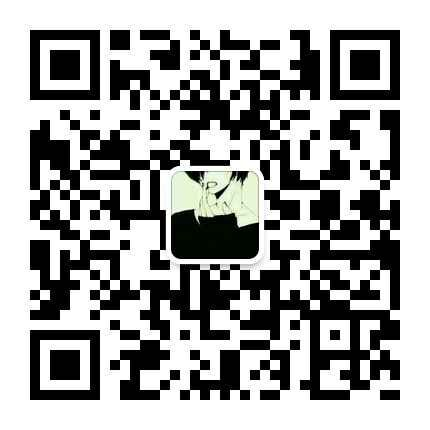
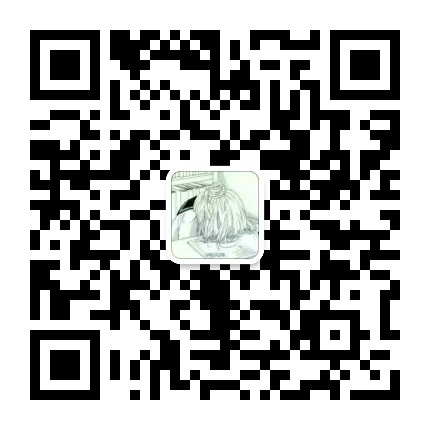
second commit

diff --git a/index.html b/index.html
@@ -2,14 +2,14 @@
 <html lang="en">
 <head>
 	<meta charset="UTF-8">
-	<title>黑夜主权(Night)</title>
+	<title>个人主页</title>
     
     <meta name="viewport" content="width=device-width,initial-scale=1.0,maximum-scale=1.0,user-scalable=no">
     <meta name="apple-mobile-app-capable" content="yes">
     <meta name="apple-mobile-app-status-bar-style" content="black">
    
-    <meta name="description" content="一只叫做黑夜的阿宅，想成为家喻户晓的大侠">
-    <meta name="keywords" content="二次元，宅属性，前端，编程，全栈，绘画，设计">
+    <meta name="description" content="一只阿宅，想成为家喻户晓的大侠">
+    <meta name="keywords" content="二次元，宅，前端，编程，网络爬虫，绘画">
     <meta http-equiv="X-UA-Compatible" content="IE=edge,chrome=1" />
     <meta http-equiv="X-UA-Compatible" content="IE=edge">
     <meta name="author" content="cononico">
@@ -56,15 +56,15 @@
             <div class="box01_content">
                 <div class="head_div">
                     <div class="cycle_item">
-                        <a href="https://yoomeili.cn" class="github_a" id="github_a" target="_blank">
+                        <a href="https://hcy467.github.io" class="github_a" id="github_a" target="_blank">
                             <span class="github_icon"></span>
                             <span class="github_text"><p class="item_name">GitHub</p></span>
                         </a>
-                        <a href="http://blog.yoomeili.cn" class="weibo_a" id="weibo_a" target="_blank">
+                        <a href="http://huangchaoyu.cn" class="weibo_a" id="weibo_a" target="_blank">
                             <span class="weibo_icon"></span>
                             <span class="weibo_text"><p class="item_name">微博</p> </span>
                         </a>
-                        <a href="http://blog.yoomeili.cn" class="blog_a" id="blog_a" target="_blank">
+                        <a href="http://huangchaoyu.cn" class="blog_a" id="blog_a" target="_blank">
                             <span class="blog_icon"></span>
                             <span class="blog_text"><p class="item_name"> 博客</p></span>
                         </a>
@@ -83,11 +83,11 @@
                         </div>
                     </div>
                 </div>
-                <h1 class="title">黑夜</h1>
+                <h1 class="title"></h1>
                 <h2 class="title_h2">千里之行，始于足下</h2>
                 <div id="box01_text">
-                <p class="box01_p">不久前还只是一个失业农民工.</p>
-                <p class="box01_p">现在还只是一只喜欢动漫和文学的学生党.</p>
+                <p class="box01_p">不久前还只是一个高中生.</p>
+                <p class="box01_p">现在还只是一只喜欢动漫和编程的大学党.</p>
                 <p class="box01_p">不久以后将是又一个人生迷茫的旅行者.</p>
                 </div>
             </div>
@@ -101,27 +101,27 @@
             
             <div class="box02_content box_content">
                 <div id='bar_container' class="bar_container">
-                    <div class='bar mint' data-percent='70' data-skill='HTML5+CSS3'></div>
-                    <div class='bar red' data-percent='50' data-skill='JavaScript'></div>
-                    <div class='bar lila' data-percent='50' data-skill='前端工程化'></div>
-                    <div class='bar orange' data-percent='50' data-skill='Node.js'></div>
-                    <div class='bar gray' data-percent='30' data-skill='Java || C++'></div>
-                    <div class="bar blue" data-percent='50' data-skill='PS&AE&PR&AI'></div>
+                    <div class='bar mint' data-percent='50' data-skill='HTML5+CSS3'></div>
+                    <div class='bar red' data-percent='20' data-skill='JavaScript'></div>
+                    <div class='bar lila' data-percent='60' data-skill='C语言'></div>
+                    <div class='bar orange' data-percent='20' data-skill='TCP/IP'></div>
+                    <div class='bar gray' data-percent='50' data-skill='python'></div>
+                    <div class="bar blue" data-percent='30' data-skill='网络爬虫'></div>
                     <div class="bar green" data-percent='60' data-skill='绘画'></div>
                 </div>
                 <div id="box02_text">
                     <h1>About Skill</h1>
                     <div class="overline"></div>
-                    <p>2012,第一次接触是C/C++,在拥挤的实验室</p>
-                    <p>2013,三月份在寝室迷上了网络游戏</p>
-                    <p>九月份开始学习到Java</p>
-                    <p>2014,年初的时候摸了摸Android，觉得稀奇有趣</p>
-                    <p>剩下的月份我在看JavaWeb</p>
-                    <p>2015,接触到WordPress,兴趣开始转到前端和脚本语言</p>
-                    <p>上半年插科打诨</p>
-                    <p>下半年开始学习H5,CSS3,JS</p>
-                    <p>现在正在学习前端工程化技术</p>
-                    <p>喜欢UI,交互设计,觉得UED是我坚持精确1个像素的动力</p>
+                    <p>2019，第一次接触是C,在大学的课上</p>
+                    <p>之后便在寝室迷上了网络游戏</p>
+                    <p>课余时间自学了python</p>
+                    <p>2020,年初的时候摸了摸Android，觉得稀奇有趣</p>
+                    <p>然后就是新冠，无法去学校的我只能研究python爬虫为乐</p>
+                    <p>2020暑假,接触到前端,开始学习H5,CSS3,JS</p>
+                    <p>开学后开始插科打诨</p>
+                    <p>下半学期的我在研究一些网络技术</p>
+                    <p>现在正在学习（毕竟要是拿不到毕业证和学位证就尴尬了）</p>
+                    <p>学习万岁，我爱学习，上学人都是人上人</p>
                     <p>而未来...</p>
                     <p>想成为一名全栈工程师</p>
                 </div>
@@ -141,30 +141,29 @@
                 <ul id="timeUl" class="timeUl">
                     <li>
                         <div>
-                            <h1>2012-Now</h1>
-                            <p>淄博职业学院</p>
-                            <p>专业：机械制造与自动化</p>
-                            <p>在风气不佳的考试战场中险些挂科(poi~)</p>
-                            <p>最喜欢的科目是LOL<p>
-                            <p>现在正在愁于毕业设计</p>
+                            <h1>2019-NOW</h1>
+                            <p>西安工程大学</p>
+                            <p>专业：计算机科学与技术</p>
+                            <p>在考试战场上险些挂科(poi~)</p>
+                            <p>最喜欢的科目是C语言<p>
+                            <p>正在愁于结课考试</p>
                         </div>
                     </li>
                     <li>
                         <div>
-                            <h1>2015.7-2015.8</h1>
-                            <p>青花瓷酒店</p>
-                            <p>服务员</p>
-                            <p>没学到什么东西</p>
-                           <p>前途多艰</p>
+                            <h1>2019-2020</h1>
+                            <p>网信处网络运维科</p>
+                            <p>学生助理(实习)</p>
+                            <p>大有收获</p>
+                           <p>了解了相当多的网络方面知识</p>
                         </div>
                     </li>
                     <li>
                        <div>
-                            <h1>2016.3-2016.4</h1>
-                            <p>小菜馆</p>
-                            <p>传菜生</p>
-                            
-                            <p>前途多艰</p>
+                            <h1>2020-NOW</h1>
+                            <p>网信处网络运维科</p>
+                            <p>学生助理</p>
+                            <p>正在体验中</p>
                         </div>
                     </li>
                     <li>
@@ -211,11 +210,11 @@
                                 <h1>绘画/<a>手绘&CG</a></h1>
                             </div>
                             <p class="about_p">
-                                对于绘画的热爱一部分来自于对ACG的热爱,小学时就开始拿着笔头被要烂的铅笔瞎画,
+                                对于绘画的热爱一部分来自于对ACG的热爱,小学时就开始拿着铅笔瞎画,
                                 可惜父母和我都没发现这是个值得培养的爱好,以至于现在发展为一个手残.
                             </p>
                             <p>
-                                比较擅长铅笔手绘动漫人物,SAI动漫人物的绘制(我是手残，上色渣渣).喜欢的画师是樋上至.
+                                比较擅长铅笔手绘动漫人物(我是手残，上色渣渣).喜欢的画师是樋上至.
                                 </a>
                             </p>
                         </div>
@@ -236,11 +235,11 @@
                                 <h1>ACG/<a>动漫&视频&lol</a></h1>
                             </div>
                             <p class="about_p">
-                                入宅作《犬夜叉》,看完《Angle Beats!》深陷泥潭,最喜欢K社的作品(包括Galgame),
-                                崇拜麻枝准,喜欢的歌手是ClariS.是个典型的萝莉控重度患者.
+                                其实并不常常看，偶尔而已。出名的动漫也都看过
+                                喜欢宫崎骏的作品,喜欢的歌手是ClariS.是个典型的宅男病重度患者.
                             </p>
                             <p>
-                                动漫对我而言是和文学一样的文化,最具感染力的抒情方式,将来希望自己工作在二次元的领域.
+                                动漫对我而言是和文学一样的文化,最具感染力的抒情方式,将来希望自己可以尝试给喜欢的角色建模。
                             </p>
                         </div>
                     </li>
@@ -260,7 +259,7 @@
                                 <h1>文学/<a>历史&写作</a></h1>
                             </div>
                             <p class="about_p">
-                                和大多数人一样曾经也在可当上捧着一本小说看,以前喜欢小四韩寒马尔克斯村上春树,现在的兴趣
+                                和大多数人一样曾经也在可当上捧着一本小说看,以前喜欢郭敬明村上春树,现在的兴趣
                                 转移到历史上去了,屌丝只有多读书才能提高自己的内涵.
                             </p>
                             <p>
@@ -281,34 +280,34 @@
             <div class="foot_info_main">
                 <ul>
                     <li class="github_items">
-                        <a href="http://blog.yoomeili.cn" target="_blank">GitHub</a>
+                        <a href="http://hcy467.github.io" target="_blank">GitHub</a>
                     </li>
                     <li class="google_items">
-                        <a href="http://blog.yoomeili.cn" target="_blank">Google+</a>
+                        <a href="http://huangchaoyu.cn" target="_blank">Google+</a>
                     
                     </li>
                     <li class="twitter_items">
-                        <a href="http://blog.yoomeili.cn" target="_blank">Twitter</a>
+                        <a href="http://huangchaoyu.cn" target="_blank">Twitter</a>
                     
                     </li>
                     <li class="facebook_items">
-                        <a href="http://blog.yoomeili.cn" target="_blank">FaceBook</a>
+                        <a href="http://huangchaoyu.cn" target="_blank">FaceBook</a>
                     
                     </li>
                     <li class="weibo_items">
-                        <a href="http://blog.yoomeili.cn" target="_blank">微博</a>
+                        <a href="http://huangchaoyu.cn" target="_blank">微博</a>
                     
                     </li>
                     <li class="zhihu_items">
-                        <a href="http://blog.yoomeili.cn" target="_blank">知乎</a>
+                        <a href="http://huangchaoyu.cn" target="_blank">知乎</a>
                     
                      </li>
                      <li class="blog_items">
-                        <a href="http://blog.yoomeili.cn" target="_blank">博客</a>
+                        <a href="http://huangchaoyu.cn" target="_blank">博客</a>
                     
                      </li>
                      <li class="email_items">
-                        <a href="mailto:min@coolecho.net" target="_blank">邮箱</a>
+                        <a href="2889065301@qq.com" target="_blank">邮箱</a>
                     </li>
                     <div class="clear"></div>
                 </ul>
@@ -319,19 +318,18 @@
                     </span>
                     <span class="dingding">
                         <a class="dingding_icon"></a>
-                        <img class="dingding_img" src="images/upload/dingding_qr.png">
+                        <img class="dingding_img" src="images/upload/dingding_qr.jpg">
                     </span>
                     <span class="qq">
                         <a class="qq_icon"></a>
-                        <img class="qq_img" src="images/upload/qq_qr.jpg">
+                        <img class="qq_img" src="images/upload/qq_qr.png">
                     </span>
                 </div>
             </div>
             <div class="foot_power">
-                <h3>©2016 Pwoerd 
-                    <a href="http://yoomeili.cn" title="Night" target="_blank"> Night's</a>
-                    <a href="https://blog.yoomeili.cn" title="IceEnd">黑夜主权</a>
-                    <a href="http://www.miitbeian.gov.cn/" title="beian" target="_blank">浙ICP备14039906号-1</a>
+                <h3>©2020 Pwoerd 
+                    <a href="http://huangchaoyu.cn" title="Night" target="_blank"> Night's</a>
+                    <a href="http://huangchaoyu.cn" title="IceEnd">瑜的个人主页</a>
                 </h3>
             </div>
         </foot>
